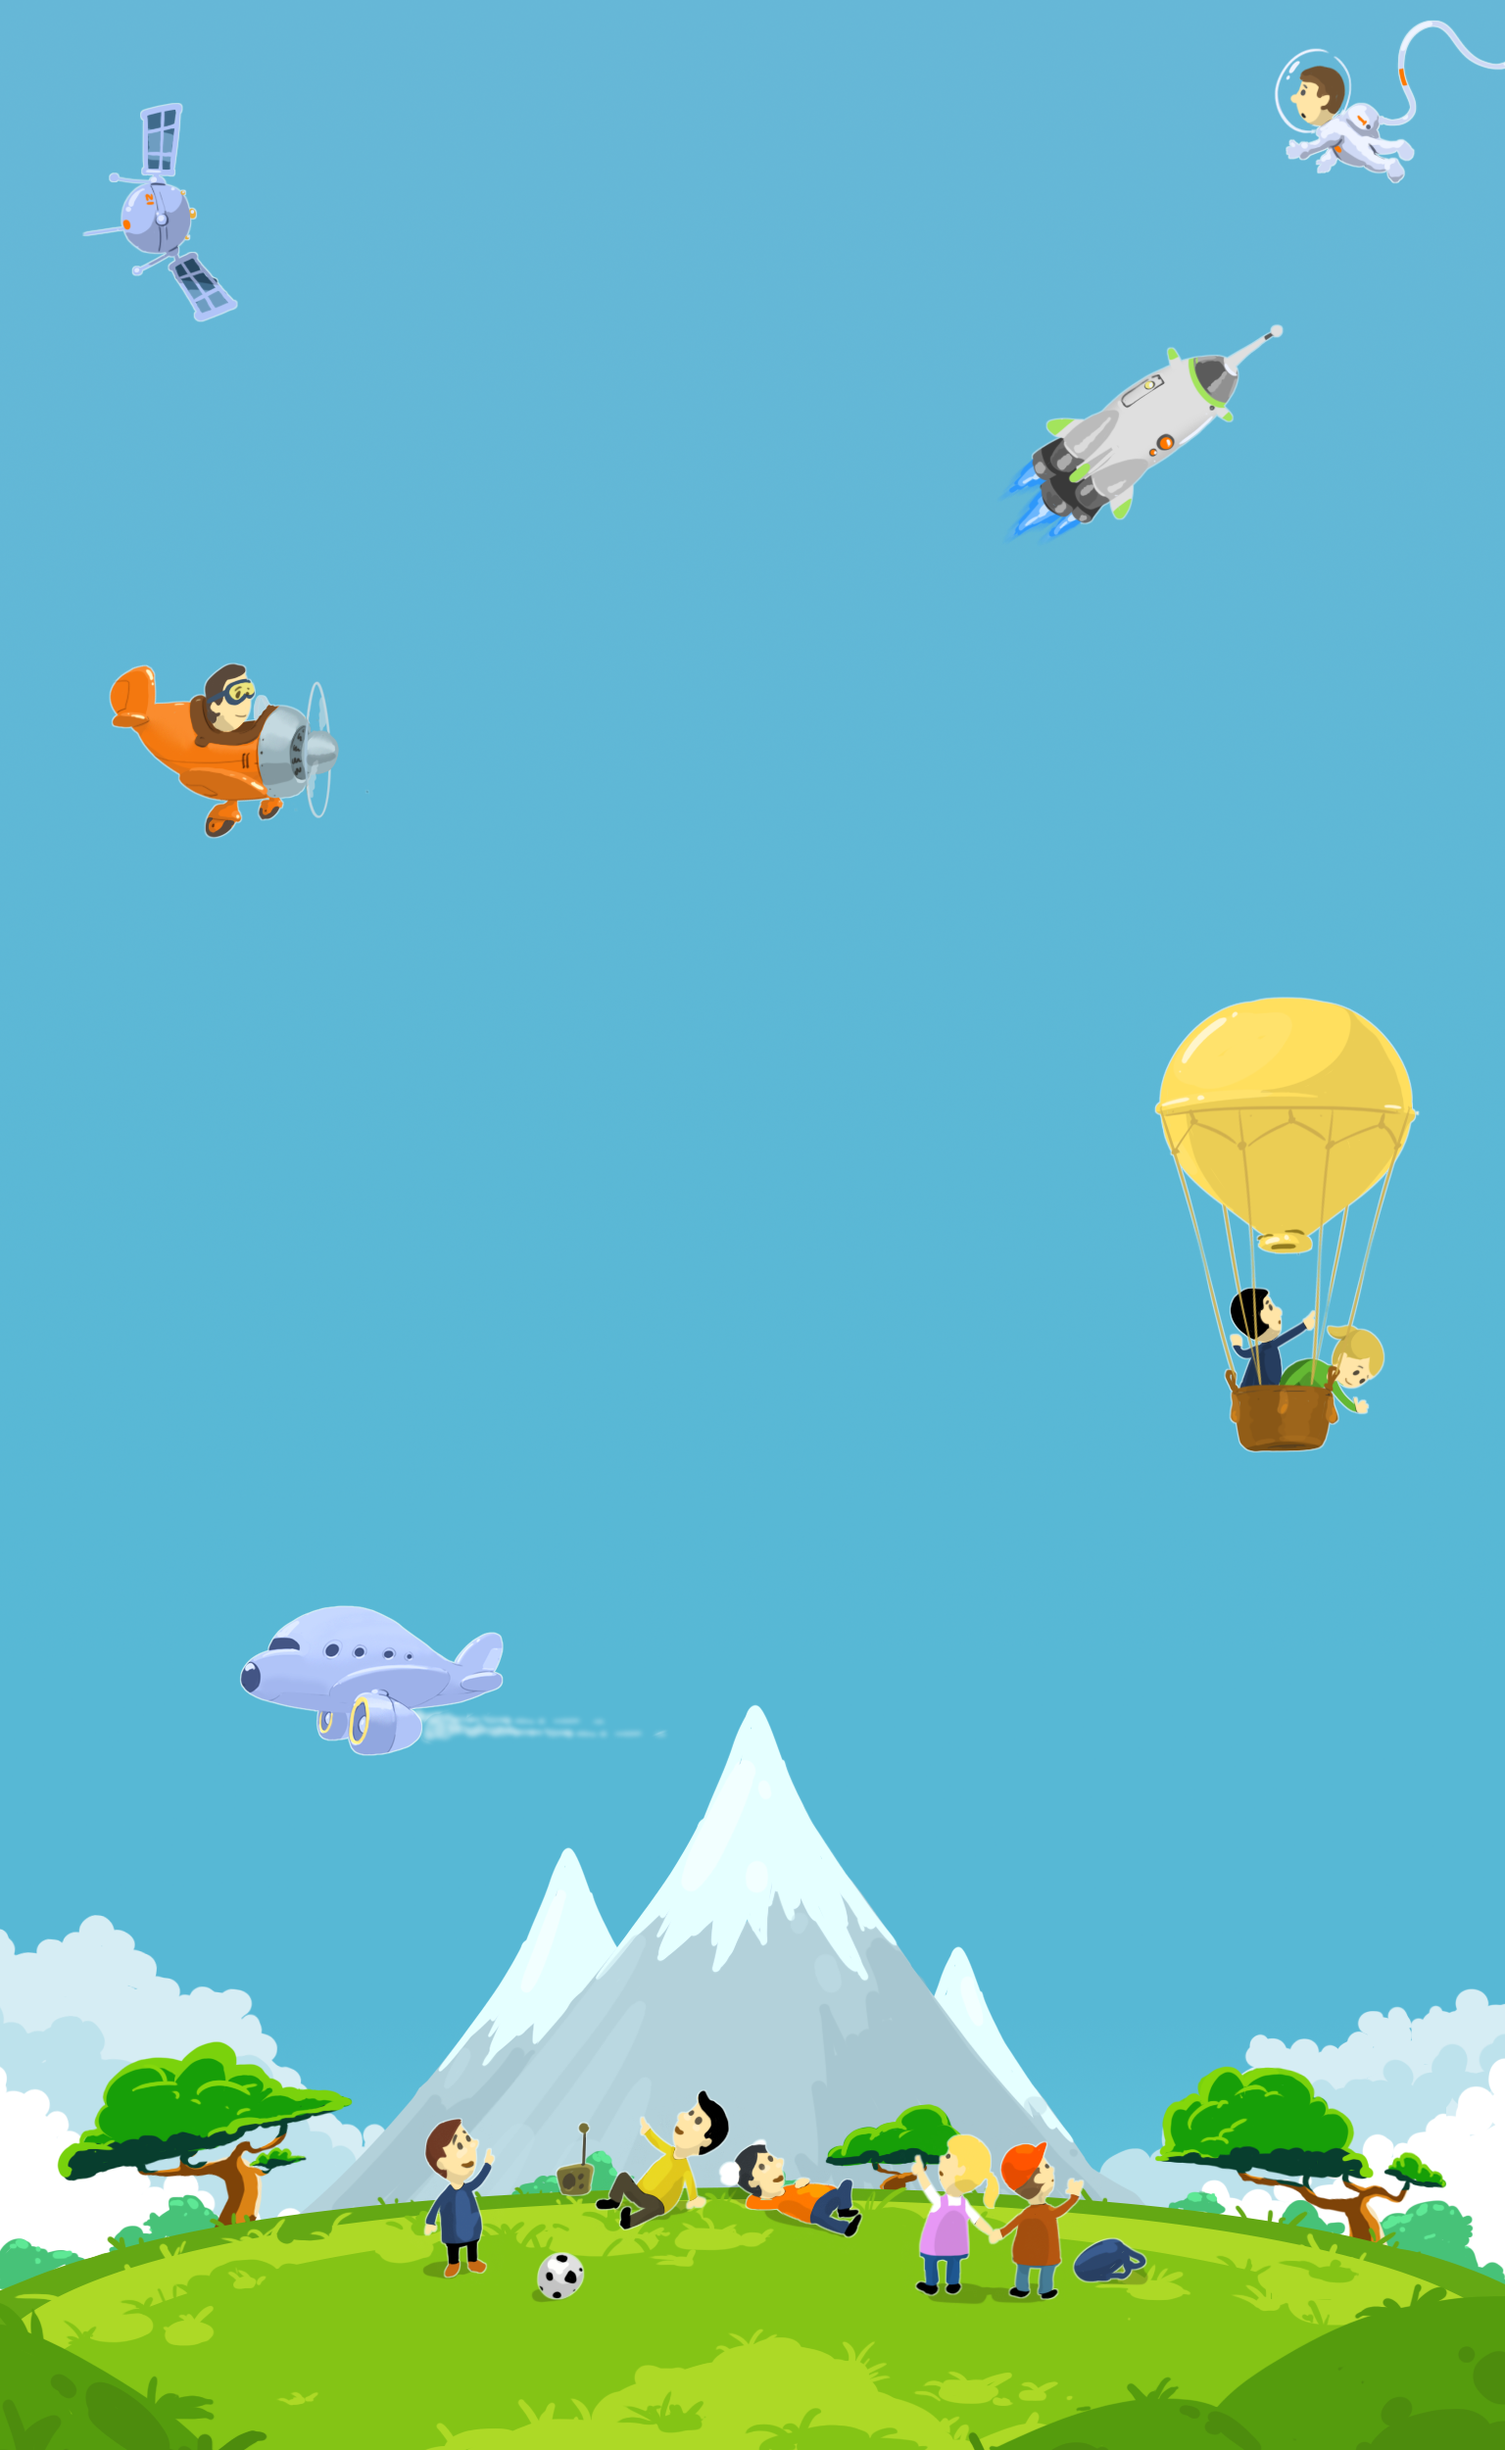
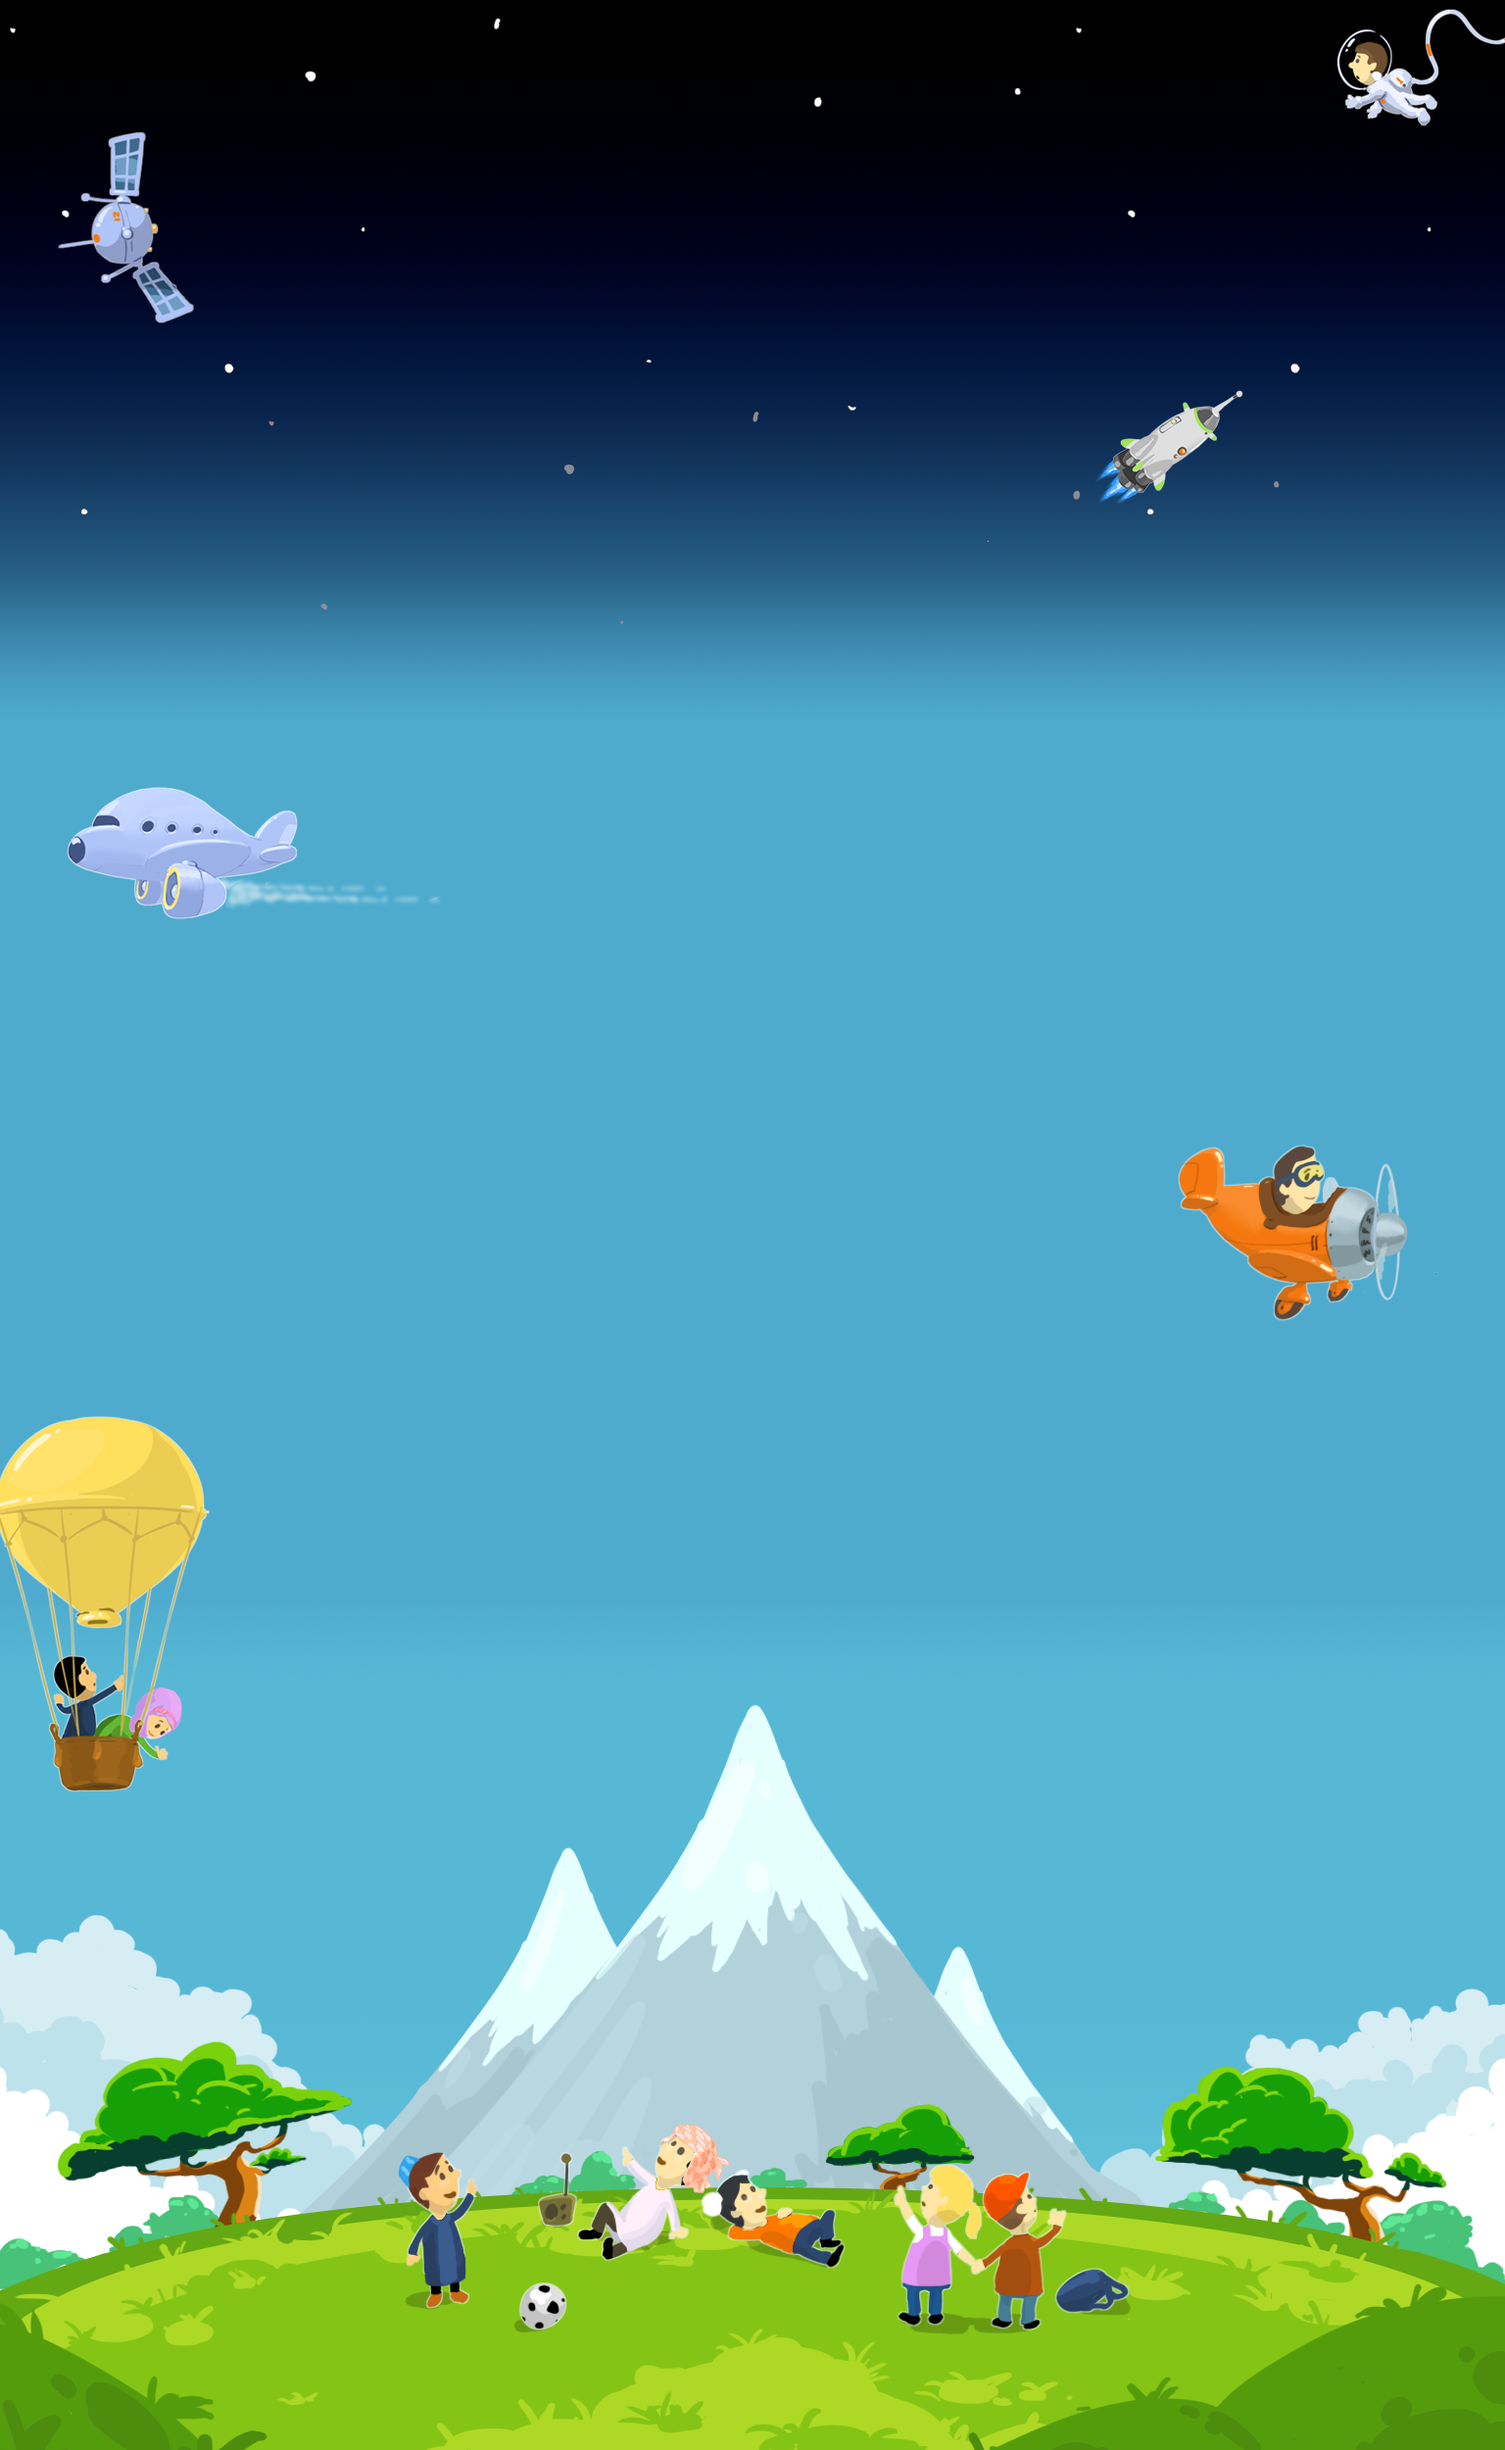
Changed Frontpage Look
- Space look implemented.

diff --git a/public/style.css b/public/style.css
@@ -6941,11 +6941,15 @@ header .login a:last-of-type {
 .page-contact-done .static {
   padding-bottom: 40px;
 }
+body.page-index {
+  background: #4eabce;
+}
 body.page-index #page-wrapper {
   background: #5bb9d0;
-  background: url('img/background-frontpage.png');
-  background-size: cover;
-  background-position: center;
+  background: url('img/background-frontpage-top.png') no-repeat;
+  background-size: 100%;
+  background-position: center top;
+  position: relative;
 }
 .page-index header {
   padding-bottom: 20px;
@@ -6987,7 +6991,7 @@ body.page-index #page-wrapper {
 .page-index .carousel .bx-viewport .bxslider p {
   font-size: 20px;
   text-shadow: none;
-  color: black;
+  color: #FFF;
 }
 .page-index .carousel .bx-wrapper .bx-controls-direction a {
   text-indent: 0;
@@ -6996,14 +7000,27 @@ body.page-index #page-wrapper {
   color: rgba(255, 255, 255, 0.7);
 }
 .page-index .carousel .bx-wrapper .bx-controls-direction a:hover {
-  color: white;
+  background: white;
+}
+.page-index .carousel .bx-wrapper .bx-pager.bx-default-pager a.active {
+  background: white !important;
+}
+.page-index .background-frontpage {
+  background: url('img/background-frontpage-bottom.png') no-repeat;
+  background-position: center bottom;
+  background-size: 100%;
+  position: absolute;
+  bottom: 0;
+  width: 100%;
+  height: 2000px;
+  z-index: -1;
 }
 .page-index .main {
   position: relative;
-  background: url('img/clouds-front.png') repeat-x;
-  background-position: 0 -400px;
+  background: url('img/elements-frontpage.png') no-repeat;
   padding-top: 20px;
   padding-bottom: 300px;
+  background-position: center 40%;
 }
 .page-index .main .row {
   margin-bottom: 20px;

diff --git a/src/less/home.less b/src/less/home.less
@@ -1,9 +1,11 @@
 body.page-index {
+	background: #4eabce;
 	#page-wrapper {
 			background: #5bb9d0;
-			background: url('img/background-frontpage.png');
-			background-size: cover;
-			background-position: center;
+			background: url('img/background-frontpage-top.png') no-repeat;
+			background-size: 100%;
+			background-position: center top;
+			position: relative;
 		}
 }
 
@@ -51,7 +53,7 @@ body.page-index {
 				p {
 					font-size: 20px;
 					text-shadow: none;
-					color:black;
+					color:#FFF;
 				}
 
 				
@@ -65,16 +67,30 @@ body.page-index {
 			color: rgba(255,255,255,0.7);
 
 			&:hover {
-				color: white;
+				background: white;
 			}
 		}
+		.bx-wrapper .bx-pager.bx-default-pager a.active {
+			background: white !important;
+		}
+
+	}
+	.background-frontpage {
+		background: url('img/background-frontpage-bottom.png') no-repeat;
+		background-position: center bottom;
+		background-size:100%;
+		position: absolute;
+		bottom: 0;
+		width: 100%;
+		height:2000px;
+		z-index:-1;
 	}
 	.main {
 		position: relative;
-		background: url('img/clouds-front.png') repeat-x;
-		background-position: 0 -400px;
+		background: url('img/elements-frontpage.png') no-repeat;
 		padding-top: 20px;
 		padding-bottom:300px;
+		background-position: center 40%;
 
 		.row {
 			margin-bottom: 20px;

diff --git a/public/index.php b/public/index.php
@@ -72,7 +72,7 @@
 
 			<div class="row">
 				<div class="col-sm-5 image">
-					<img src="img/highlight-front-1.png">
+					<img src="img/shooting-stars.png">
 				</div>
 				<div class="col-sm-7">
 					<div class="text">
@@ -185,16 +185,11 @@
 				</div>
 			</div>
 		</div>
-		<div class="background-main"></div>
+		
 	</section>
-
-
-
-
-
 	
 	<div id="push"></div>
-
+	<div class="background-frontpage"></div>
 	</div><!-- #page-wrapper -->
 
 
